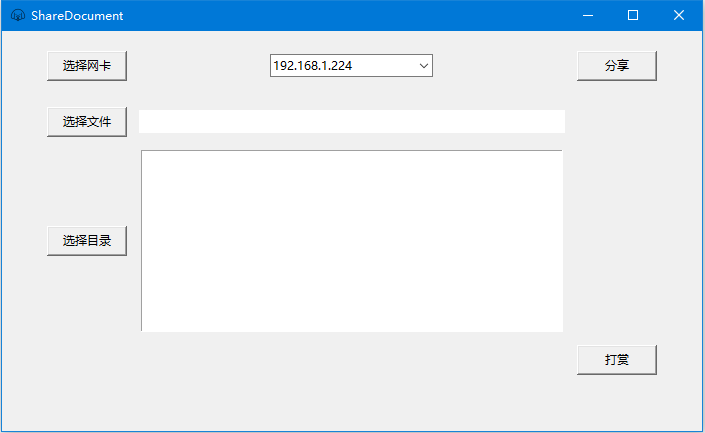
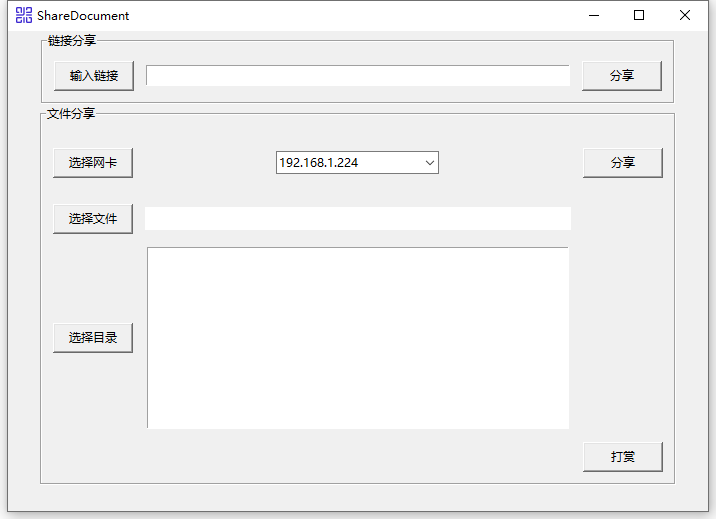
增加链接分享功能
增加链接分享功能

diff --git a/README.md b/README.md
@@ -1,8 +1,12 @@
 # ShareDocument
 
 电脑端文件生成二维码，手机扫描快速下载文件
+* 支持分享链接
 * 支持选择网卡
 * 支持选择单个文件
 * 支持选择目录下的多个文件
 
-![avatar](https://github.com/godsonzhang/ShareDocument/blob/master/img/img.png?raw=true)
+注意：
+* 手机需要和电脑在同一个网络
+
+![avatar](https://github.com/godsonzhang/ShareDocument/blob/master/img/img.png?raw=true)'
